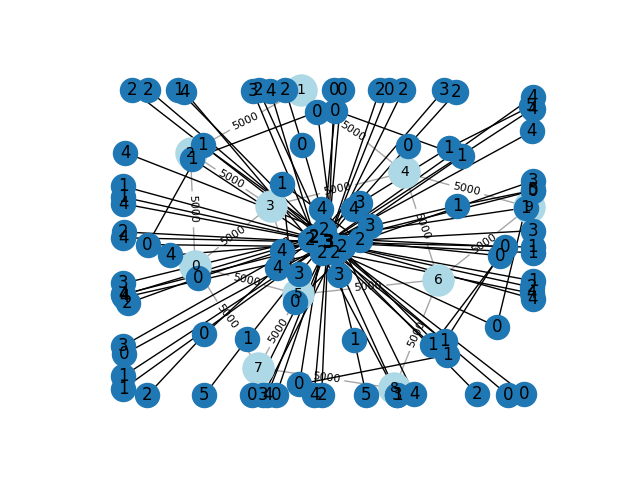
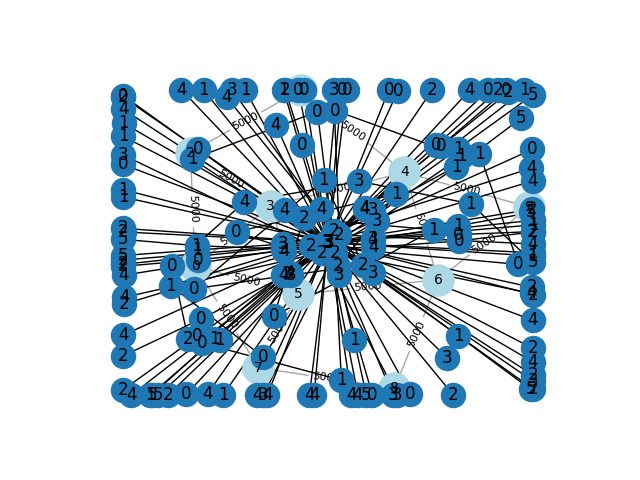
updated the global n_hops to 6 and the reward to 4

Changed region(s): [[0.1562, 0.1562, 0.875, 0.875]]

diff --git a/Deep_QLearning_5G-master/nsl_placement.py b/Deep_QLearning_5G-master/nsl_placement.py
@@ -408,10 +408,10 @@ def analyze_links(nsl_graph,substrate): ## returns the length of the path in add
     G = nx.node_link_graph(substrate.graph)#graph format
     links = copy.deepcopy(substrate.graph["links"])#copy to temporarily work with it
     reject = False
-    max_hops = 5
+    max_hops = 6
     chosen_path =[]
     n_hops = 0
-    
+
     vlinks = nsl_graph["vlinks"]
     vnfs = nsl_graph["vnfs"] ## att: we work only with vnodes 
     for vlink in vlinks:
@@ -476,10 +476,11 @@ def analyze_links(nsl_graph,substrate): ## returns the length of the path in add
 
     for vlink in vlinks:
         try:#when two vnfs are instantiated in the same node there is no link
-                path = vlink["mapped_to"]            
+                path = vlink["mapped_to"]  
+                print("the smaaaaaaal path:  ", path)          
         except KeyError:
                 path=[]
-        n_hops += len(path - 1)
+        n_hops += len(path) - 1
 
     return reject, n_hops
 

diff --git a/Deep_QLearning_5G-master/nsl_request.py b/Deep_QLearning_5G-master/nsl_request.py
@@ -52,7 +52,7 @@ nsl_graph_urllc_2 =  {
                         #{"id":10,"function":"UPF","type":2,"backup":3}"""
             ],
             "vlinks":[
-                        {"source":0,"target":2, "mapped_to":[7,8,6,4]},
+                        {"source":0,"target":2,},
                         {"source":1,"target":3},
                         {"source":0,"target":4},
                         #{"source":1,"target":5},

diff --git a/Deep_QLearning_5G-master/calculate_metrics.py b/Deep_QLearning_5G-master/calculate_metrics.py
@@ -1,6 +1,6 @@
 ### definition of functions to calculate the profit for nodes and links used in the deep main file ###
 def calculate_profit_latency(nslr, n_hops):
-    L_max = 4
+    L_max = 5
     if(nslr.service_type == "urllc_1"):
         if(n_hops < L_max):
             return 5
